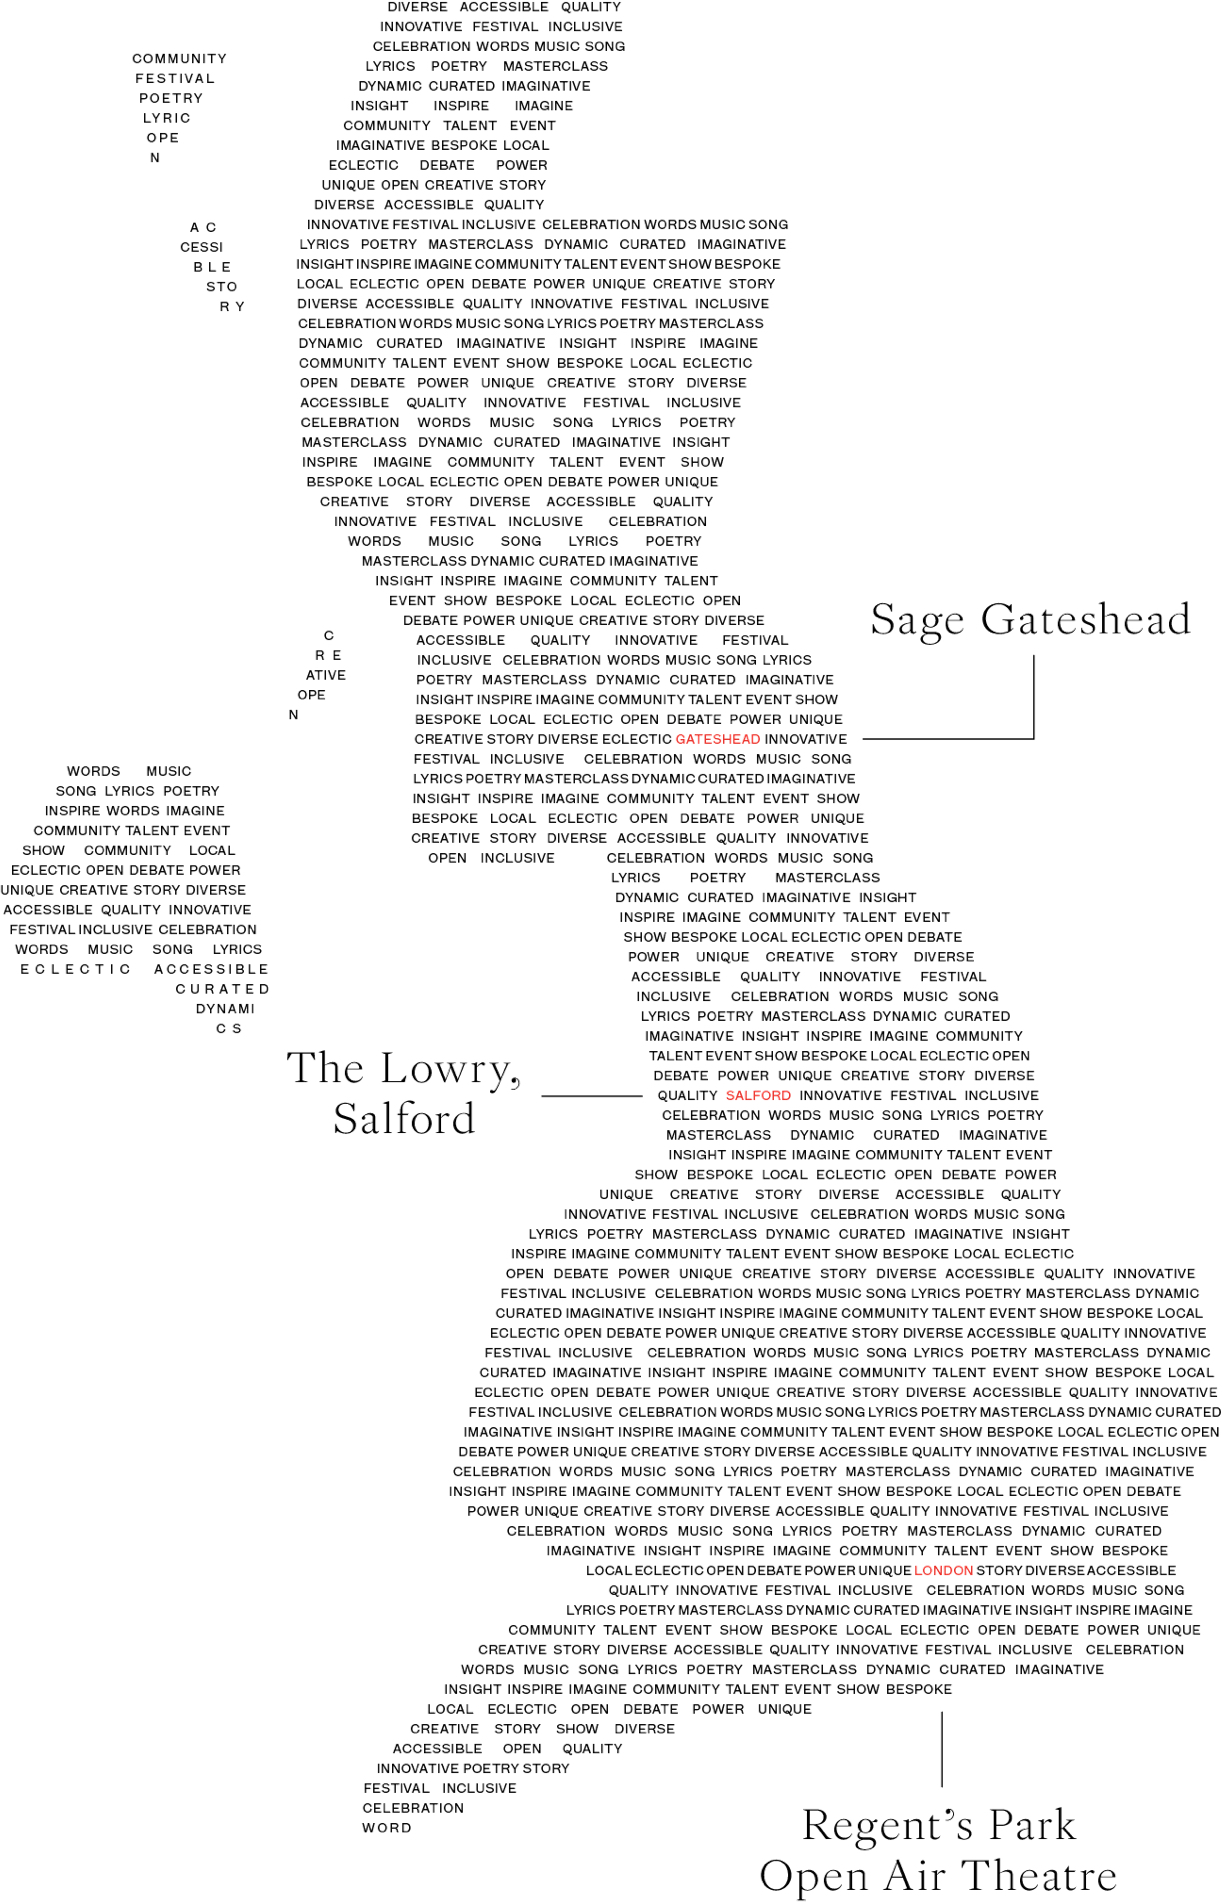
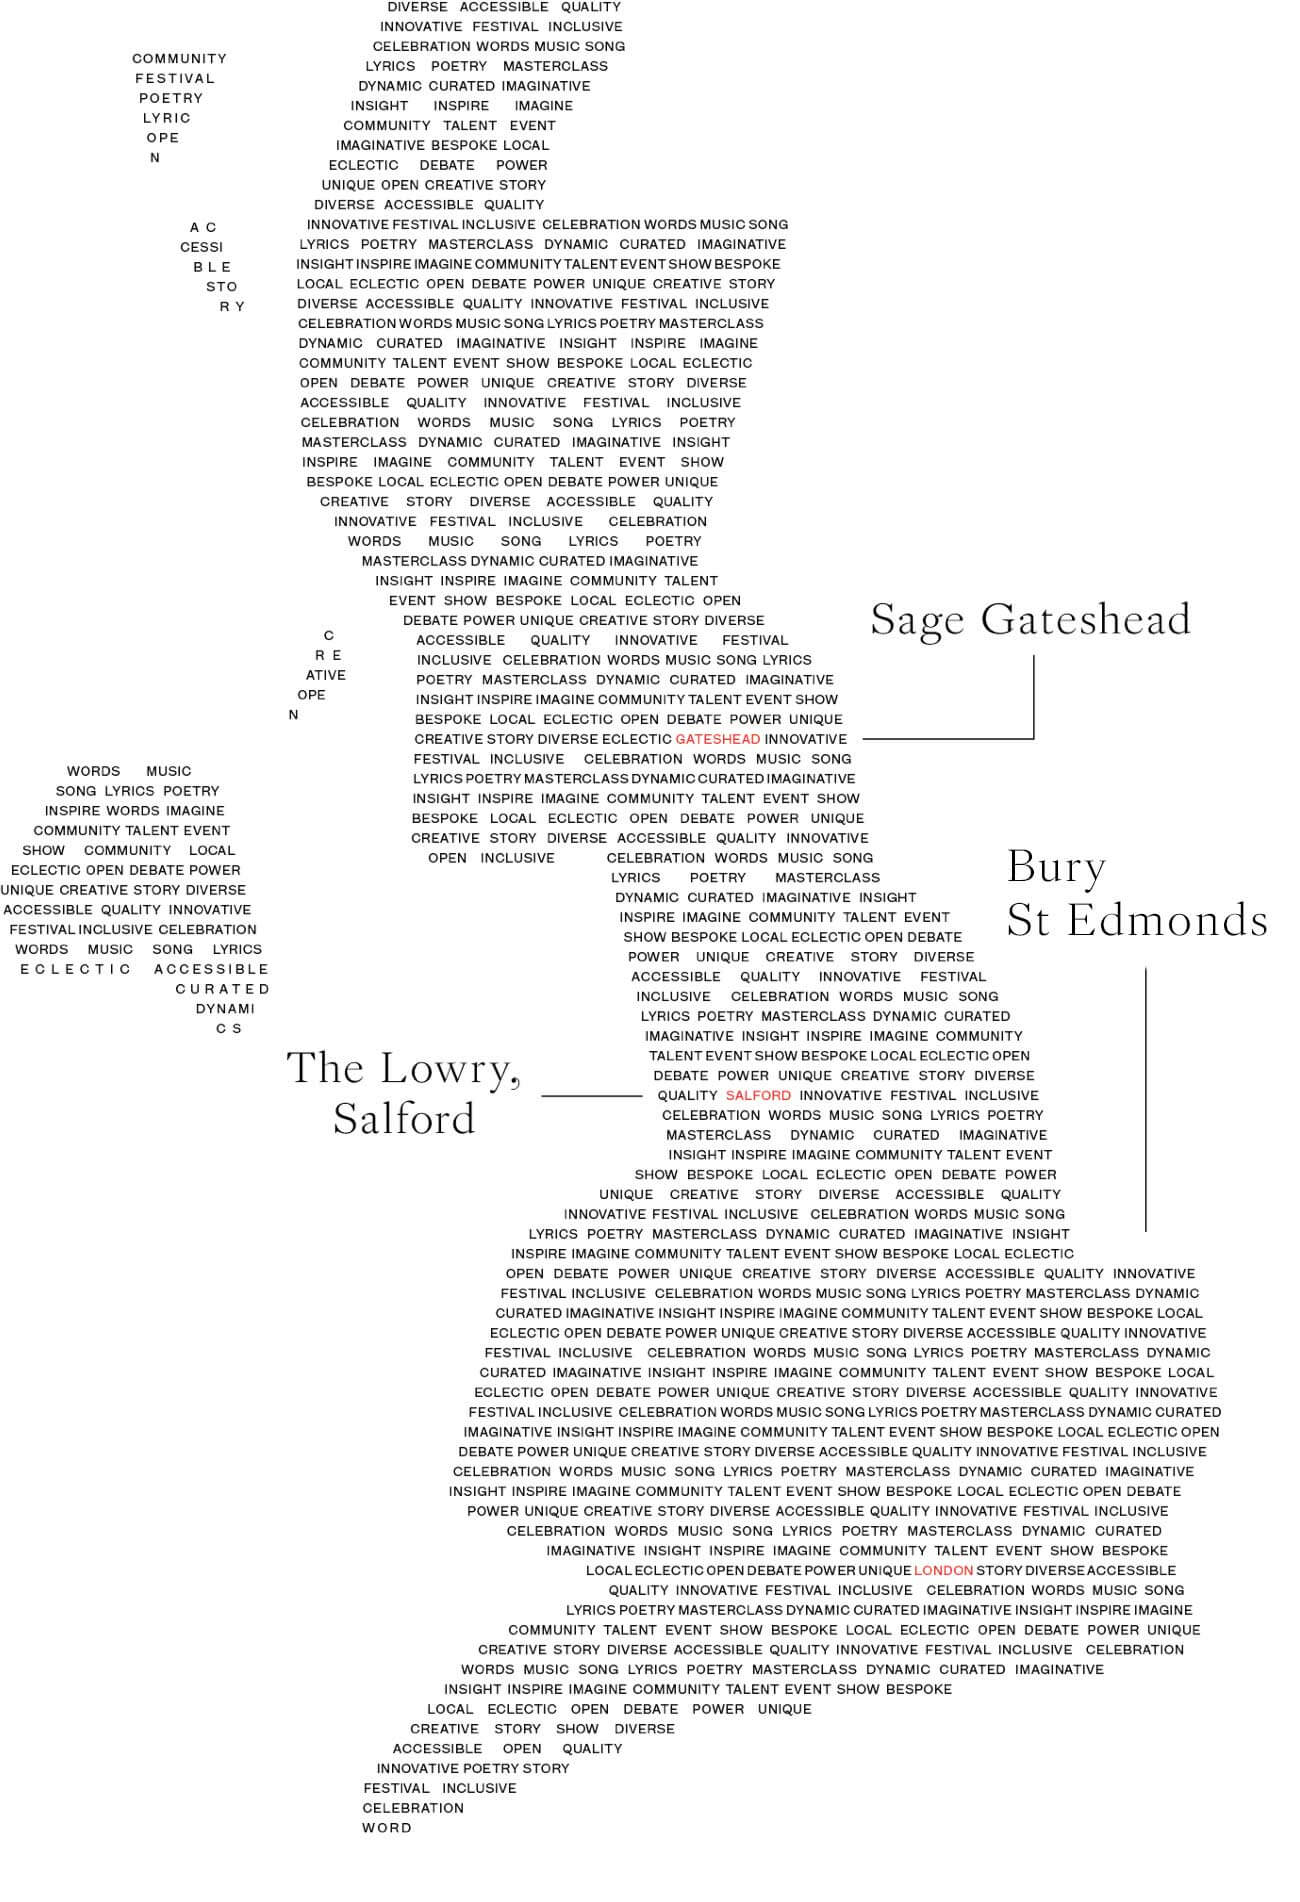
getting rid of regents park etc

diff --git a/index.html b/index.html
@@ -59,11 +59,11 @@
           The Lowry, Salford<br />
           <div>See Event lineup</div>
         </a>
-        <a class="menu-item one marginal">
+        <!-- <a class="menu-item one marginal">
           <img src="images/regent.jpg" alt="">
           London<br />
           Coming 2020
-        </a>
+        </a> -->
       </div>
   
     </div>
@@ -184,9 +184,10 @@
             <h4>Event Map</h4>
             <h2>
               Gateshead 2019<br/>
-              <a href="events.html" style="display: block;letter-spacing: 0.4px;margin-bottom: 14px;line-height: 1em;"><small>See event line-up &rarr;</small></a><br/>
+            
               Salford 2020<br/>
-              London 2020
+              <a href="events-lowry.html" style="display: block;letter-spacing: 0.4px;margin-bottom: 14px;line-height: 1em;"><small>See event line-up &rarr;</small></a><br/>
+              <!-- London 2020 -->
             </h2>
           </div>
 

diff --git a/events-lowry.html b/events-lowry.html
@@ -71,11 +71,11 @@
           The Lowry, Salford<br />
           <div>See Event lineup</div>
         </a>
-        <a class="menu-item one marginal">
+        <!-- <a class="menu-item one marginal">
           <img src="images/regent.jpg" alt="">
           London<br />
           Coming 2020
-        </a>
+        </a> -->
       </div>
   
     </div>

diff --git a/events.html b/events.html
@@ -71,11 +71,11 @@
           The Lowry, Salford<br />
           <div>See Event lineup</div>
         </a>
-        <a class="menu-item one marginal">
+        <!-- <a class="menu-item one marginal">
           <img src="images/regent.jpg" alt="">
           London<br />
           Coming 2020
-        </a>
+        </a> -->
       </div>
   
     </div>
